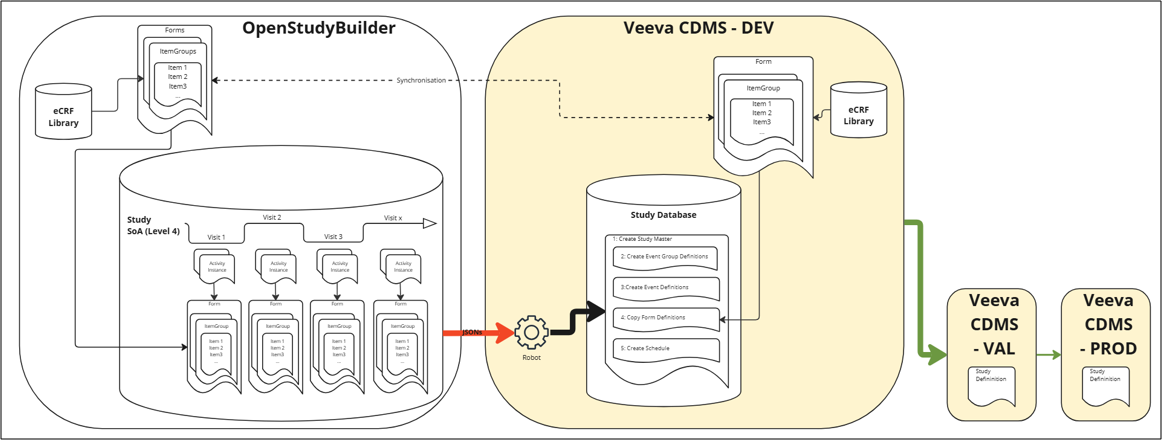
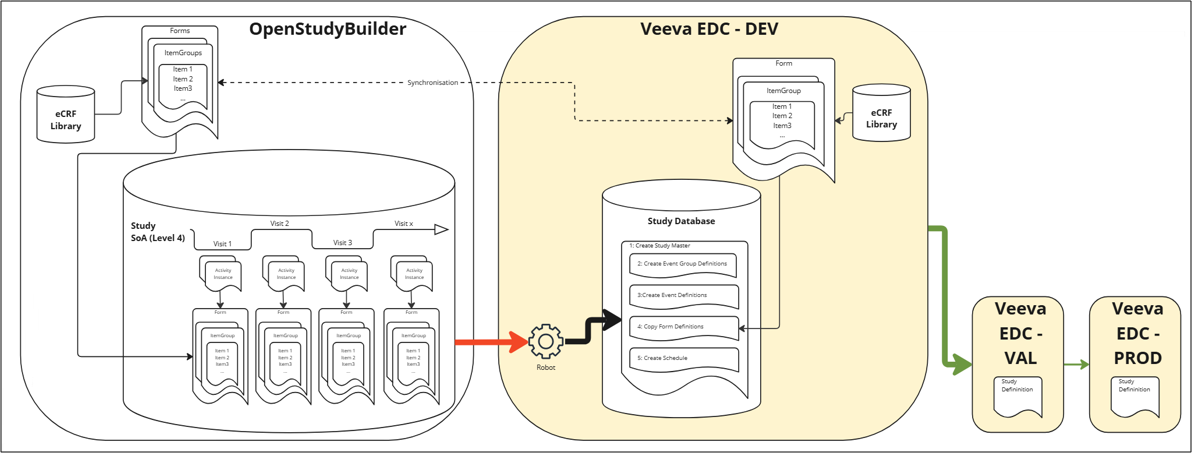
updates on EDC documentation

diff --git a/docs/stylesheets/general.css b/docs/stylesheets/general.css
@@ -44,6 +44,18 @@ img {
   border: none;
 }
 
+.imageMaxWidth600 {
+  max-width: 600px;
+  height: auto;
+  display: block;
+  margin: 0 auto;
+}
+
+.imageMaxWidth400 {
+  max-width: 400px !important;
+  height: auto;
+}
+
 .md-header__button.md-logo img {
   border: none !important;
   box-shadow: none !important;

diff --git a/docs/guide_edc.md b/docs/guide_edc.md
@@ -9,8 +9,8 @@ The OpenStudyBuilder is not an EDC system, nor should it replace one. But it con
 
 EDC System | Status | Integration Strategy
 --- | --- | ---
-Oracle ClinicalOne | Live | API-based integration, "Automated Study Builder Application" available, utilizing extensions for edit checks and more, developed by Oracle
-Veeva CDMS | PoC | API-based integration, limited features due to currently missing features on Veeva side, development by OpenStudyBuilder team
+Oracle Clinical One | Live | API-based integration, "Automated Study Builder Application" available, utilizing extensions for edit checks and more, developed by Oracle
+Veeva EDC | PoC | API-based integration, limited features due to currently missing API endpoints on Veeva side, development by OpenStudyBuilder team with ongoing improvement discussions
 Marvin EDC | PoC | ODM.xml export and import, tested by EvidentIQ
 REDCAP Cloud | PoC | ODM.xml export and import, tested by University community
 [ODM.xml based EDC Systems] | theoretical support | ODM.xml export and import, no specific other EDC system tested yet
@@ -18,37 +18,39 @@ Medidata Rave | N/A | None - needs to be requested by PharmaCos and someone will
 
 ## CRFs in OpenStudyBuilder
 
-The OpenStudyBuilder support a **CRF library** on the standards level. CRFs can be designed and visualized in the OpenStudyBuilder containing forms, item groups and items in alignment with the ODM.xml standard. Furthermore extensions and aliases can be defined to support the EDC system specific requirements. Please check out the guide on [CRF](./guide_crf.md) for more details. We are currently working on binding CRF elements to activities using biomedical concepts. For more details on this, please refer to the [Activity Concepts](./guide_activity_concept.md) and [Beyond Concepts](./guide_beyond_concepts.md) for detailed information. Unless this work is done, a **study CRF is NOT available**.
+The OpenStudyBuilder supports a **CRF library** on the standards level. CRFs can be designed and visualized in the OpenStudyBuilder containing forms, item groups and items in alignment with the ODM.xml standard. Furthermore, extensions and aliases can be defined to support the EDC system specific requirements. Please check out the guide on [CRF](./guide_crf.md) for more details. We are currently working on binding CRF elements to activities using biomedical concepts. For more details on this, please refer to the [Activity Concepts](./guide_activity_concept.md) and [Beyond Concepts](./guide_beyond_concepts.md) for detailed information. Unless this work is done, a **study CRF is NOT available**.
 
-## Veeva CDMS Integration
+## Veeva EDC Integration
 
-The OpenStudyBuilder team is currently working on a continuous improvement of our proof of concept for the Veeva CDMS integration. The integration is based on the OpenStudyBuilder and Veeva's APIs. The goal is to enable the creation of studies in Veeva CDMS based on the CRF library, metadata and study design defined in OpenStudyBuilder.
+The OpenStudyBuilder team is currently working on a continuous improvement of our proof of concept for the Veeva EDC integration. The integration is based on the OpenStudyBuilder and Veeva's APIs. The goal is to enable the creation of studies in Veeva EDC based on the CRF library, metadata and study design defined in OpenStudyBuilder.
 
 ### High Level Overview
 
 The following high-level overview shows the main idea.
 
-![High Level Overview of Veeva CDMS Integration Plans](./img/guide_edc_04_006.png)
-{: class="imageParagraph"}
+![High Level Overview of Veeva EDC Integration Plans](./img/guide_edc_04_006.png)
+{: class="imageParagraph imageMaxWidth600"}
 
-Figure 1: High Level Overview of Veeva CDMS Integration Plans
+Figure 1: High Level Overview of Veeva EDC Integration Plans
 {: class="imageDescription"}
 
-We plan to synchronize the Veeva CDMS CRF Library and the OpenStudyBuilder CRF library. These OpenStudyBuilder CRF library elements are then linked to activity instances which are used in the study specific Schedule of Activities (SoA) - we name this SoA Level 4. When creating a study in OpenStudyBuilder, we can trigger an automation which will setup the Study in Veeva CDMS based on this OpenStudyBuilder SoA Level 4.
+We plan to synchronize the Veeva EDC CRF Library and the OpenStudyBuilder CRF library. These OpenStudyBuilder CRF library elements are then linked to activity instances which are used in the study specific Schedule of Activities (SoA) - we name this SoA Level 4. The long-term vision is to link the elements of the OpenStudyBuilder CRF library to activity instances that are used in the study-specific Schedule of Activities (SoA) - which we refer to as SoA Level 4. In our current proof of concept (PoC), which serves as the foundation for the development of SoA Level 4 when creating a study in OpenStudyBuilder, we can trigger an automation that will set up the Study in Veeva EDC based on the OpenStudyBuilder SoA Level 3, in combination with some workarounds using Neodash reports.
 
-[![Overview of Veeva CDMS Integration Plans](./img/guide_edc_03.png)](./img/guide_edc_03.png){target=_blank}
+[![Overview of Veeva EDC Integration Plans](./img/guide_edc_03.png)](./img/guide_edc_03.png){target=_blank}
 {: class="imageParagraph"}
 
-Figure 2: Overview of Veeva CDMS Integration Plans
+Figure 2: Overview of Veeva EDC Integration Plans
 {: class="imageDescription"}
 
-**In short** - the current vision is the following:
+**In short** - the long-term vision is the following:
 
-- Maintain CRF Forms, ItemGroups and Items in Veeva CDMS with additional attributes, for example system display configuration
-- Synchronize CRF objects to OpenStudyBuilder, supported by a compare tool 
+- Maintain CRF Forms, ItemGroups and Items in Veeva EDC with additional attributes, for example system display configuration
+- Synchronize CRF objects between OpenStudyBuilder and Veeva CRF library, supported by a compare tool (this will be done via API after Veeva's release)
 - Select activity instances in Schedule of Activities for visits (which are linked to CRF objects - Level 4). 
-- Perform automation setup with "Robot" - call the Veeva APIs to setup a new empty study, create event groups and events, copy the CRF forms and create the schedule.
+- Perform automation setup calling the Veeva APIs to setup a new empty study, create event groups and events, copy the CRF forms and create the schedule.
 - After study setup in DEV, use this new study in VAL and PROD
+
+Note: We're in dialog with Veeva to prioritize new APIs on their roadmap that will enable OpenStudyBuilder to synchronize objects between libraries at both the library and study level.
 
 **Explanation** 
 
@@ -58,10 +60,10 @@ A further step is required to update and maintain the data specifications. Next 
 
 On study setup, an activity is selected for the schedule of activities which is used in the clinical protocol, after the Epoch and the Visits have been created. Then these activities are further fine-tuned with selecting the activity instances. By selecting the activity instance, the linkage of a selected activity and the corresponding required CRF elements are available, for each dedicated visit.
 
-This specification can now be used to generate a very specific formatted JSON file, that can then be consumed by a Python script that is calling the Veeva API to setup the study in Veeva CDMS. We are working on a process (robot), to setup the Veeva CMDS study database:
+This specification can now be used to generate a very specific formatted JSON file, that can then be consumed by a Python script that is calling the Veeva API to setup the study in Veeva EDC. We are working on a process (robot), to setup the Veeva CMDS study database:
 
 - Create Study Master (this is an empty new study in Veeva)
-- Create Event Group Definitions (this is a group of events – working like a Cycle in an oncologic study)
+- Create Event Group Definitions (this is a group of events - working like a Cycle in an oncologic study)
 - Create Event Definitions (based on the OpenStudyBuilder visits used by the SoA)
 - Copy Form Definitions from the Veeva CRF Library (based on the Activity Instances selected in the SoA, linked to the eCRF forms)
 - Create Schedule (binding the Veeva Forms to the Event created before)
@@ -82,14 +84,14 @@ The following legend is used to describe the elements:
 
 Description | Icon
 --- | ---
-Veeva CDMS Form | ![Veeva CDMS Form](./img/guide_edc_04_001_01.png)
-OpenStudyBuilder Form | ![OpenStudyBuilder Form](./img/guide_edc_04_001_02.png)
-Steps not fully supported | ![Steps not fully supported](./img/guide_edc_04_001_03.png)
-Veeva event group | ![Veeva event group](./img/guide_edc_04_001_04.png)
-Veeva event label | ![Veeva label](./img/guide_edc_04_001_05.png)
-OpenStudyBuilder Epoch | ![OpenStudyBuilder Epoch](./img/guide_edc_04_001_06.png)
-OpenStudyBuilder Visit | ![OpenStudyBuilder Visit](./img/guide_edc_04_001_07.png)
-OpenStudyBuilder Activity | ![OpenStudyBuilder Activity](./img/guide_edc_04_001_08.png)
+Veeva EDC Form | ![Veeva EDC Form](./img/guide_edc_04_001_01.png){: class="imageMaxWidth400"}
+OpenStudyBuilder Form | ![OpenStudyBuilder Form](./img/guide_edc_04_001_02.png){: class="imageMaxWidth400"}
+Steps not fully supported | ![Steps not fully supported](./img/guide_edc_04_001_03.png){: class="imageMaxWidth400"}
+Veeva event group | ![Veeva event group](./img/guide_edc_04_001_04.png){: class="imageMaxWidth400"}
+Veeva event label | ![Veeva label](./img/guide_edc_04_001_05.png){: class="imageMaxWidth400"}
+OpenStudyBuilder Epoch | ![OpenStudyBuilder Epoch](./img/guide_edc_04_001_06.png){: class="imageMaxWidth400"}
+OpenStudyBuilder Visit | ![OpenStudyBuilder Visit](./img/guide_edc_04_001_07.png){: class="imageMaxWidth400"}
+OpenStudyBuilder Activity | ![OpenStudyBuilder Activity](./img/guide_edc_04_001_08.png){: class="imageMaxWidth400"}
 
 Let's get through the process steps.
 
@@ -102,29 +104,69 @@ Figure 4: Process Steps - eCRF Libraries
 As a first steps, the eCRF forms are created in the Veeva eCRF Library including the ItemGroups and Items (1). An important value is the reference ID. The synchronization job (2) will create the corresponding objects in the OpenStudyBuilder eCRF library (3) using additionally the linkage information (reference ID).
 
 ![Process Steps - Activity Setup](./img/guide_edc_04_007.png)
-{: class="imageParagraph"}
+{: class="imageParagraph imageMaxWidth600"}
 
 Figure 5: Process Steps - Activity Setup
 {: class="imageDescription"}
 
-In the steps step, the activity instances needs to be enhanced. Within the OpenStudyBuilder Activity Library (4), the activity (general concepts) and activity instances (dataset specifications) are managed. The activity instances are linked to the CRF elements (5). The link to the Form, ItemGroup and Item is managed in accordance with the ODM standard.
+In the steps step, the activity instances need to be enhanced. Within the OpenStudyBuilder Activity Library (4), the activity (general concepts) and activity instances (dataset specifications) are managed. The activity instances are linked to the CRF elements (5). The link to the Form, ItemGroup and Item is managed in accordance with the ODM standard.
 
 ![Process Steps - Study SoA Setup](./img/guide_edc_04_003.png)
-{: class="imageParagraph"}
+{: class="imageParagraph imageMaxWidth600"}
 
 Figure 6: Process Steps - Study SoA Setup
 {: class="imageDescription"}
 
 In a study (6), in the OpenStudyBuilder, a schedule of activity (SoA) is created (7). In the study, epochs are defined and used along with visits. A specific activity is selected for the study protocol and further fine-tuned by selecting a corresponding connected activity instance and associated with specific visits. As the linkage information is available in the standard, the visits can bind to concrete eCRF Forms including ItemGroups and Items (8).
 
-![Process Steps - Veeva CDMS Study Setup](./img/guide_edc_04_005.png)
-{: class="imageParagraph"}
+![Process Steps - Veeva EDC Study Setup](./img/guide_edc_04_005.png)
+{: class="imageParagraph imageMaxWidth600"}
 
-Figure 7: Process Steps - Veeva CDMS Study Setup
+Figure 7: Process Steps - Veeva EDC Study Setup
 {: class="imageDescription"}
 
-As we are now having all required information available, the Veeva CDMS setup for the specific study can be created. First (1), the study is created if not already available storing the ID back in OpenStudyBuilder. Then the event group definitions are created (2) containing the Epochs (this is a first approach). The next step created events (3) which corresponds to the visit. The form definitions are copied from the Veeva eCRF Library (4) using the ID which are stored along. Finally the Schedule is created (5) assigning the visits to the forms.
+As we are now having all required information available, the Veeva EDC setup for the specific study can be created. First (1), the study is created if not already available storing the ID back in OpenStudyBuilder. Then the event group definitions are created (2) containing the Epochs (this is a first approach). The next step created events (3) which corresponds to the visit. The form definitions are copied from the Veeva eCRF Library (4) using the ID which are stored along. Finally, the Schedule is created (5) assigning the visits to the forms.
 
-There is a "robot" program which creates and performs the final required API calls in the Veeva CDMS system. This automatic setup is performed in a DEV instance of the Veeva CDMS system. After setup, checks can be performed within Veeva and then the study can be setup in VAL and PROD afterwards.
+There is a "robot" program which creates and performs the final required API calls in the Veeva EDC system. This automatic setup is performed in a DEV instance of the Veeva EDC system. Until new APIs allow for further updates, we need to perform trial specific adjustments and form additions for now when required. After setup, checks can be performed within Veeva and then the study can be setup in VAL and PROD afterwards.
 
+## Oracle EDC Integration
 
+Oracle has developed the **Automated Study Builder Application** to streamline the setup of studies in Oracle Clinical One EDC using OpenStudyBuilder. The tool taps into the OpenStudyBuilder CRF library and the study setup for the schedule of activities (SoA).
+
+![Overview of Oracle EDC Integration](./img/guide_edc_05.png)
+{: class="imageParagraph imageMaxWidth600"}
+
+Figure 8: Overview of Oracle EDC Integration
+{: class="imageDescription"}
+
+The CRF forms, item groups and items can be enhanced using the extension mechanism from the ODM.xml standard. Oracle is using this to manage in the OpenStudyBuilder CRF library additional information like edit checks or ranges. 
+
+The Automated Study Builder Application is the interface where the the information from OpenStudyBuilder is read and processed to setup the study in the Clinical One EDC system. Here we see how the digital data flow enables automation. 
+
+### Demonstration Videos
+
+Discover how Oracle's Automated Study Builder leverages OpenStudyBuilder to streamline EDC setup in Oracle Clinical One. This **comprehensive overview** demonstrates the seamless integration and automation capabilities that transform traditional study building processes (2025-07-03).
+
+<iframe 
+  id="kaltura_player" 
+  src='https://cdnapisec.kaltura.com/p/2171811/embedPlaykitJs/uiconf_id/54927872?iframeembed=true&amp;entry_id=1_i20m4bvk&amp;config%5Bprovider%5D=%7B%22widgetId%22%3A%221_3n7fkv6k%22%7D&amp;config%5Bplayback%5D=%7B%22startTime%22%3A0%7D'  
+  style="width: 720px;height: 400px;border: 0;" 
+  allowfullscreen 
+  webkitallowfullscreen 
+  mozAllowFullScreen 
+  allow="autoplay *; fullscreen *; encrypted-media *" 
+  sandbox="allow-downloads allow-forms allow-same-origin allow-scripts allow-top-navigation allow-pointer-lock allow-popups allow-modals allow-orientation-lock allow-popups-to-escape-sandbox allow-presentation allow-top-navigation-by-user-activation" 
+  title="Automated Study Builder with OSB Introduction">
+</iframe>
+
+Watch this demonstration of Oracle's intelligent study building capabilities, showcasing the powerful integration between OpenStudyBuilder and Oracle Clinical One EDC system. See how clinical data management workflows are revolutionized through intelligent automation (2024-06-14).
+
+<iframe
+  title="Intelligent Study Build - Oracle integration with OpenStudyBuilder"
+  width=720
+  height=400
+  src="https://www.youtube-nocookie.com/embed/4-33kqSTdeY"
+  frameBorder="0"
+  allow="accelerometer; encrypted-media; gyroscope; picture-in-picture"
+  allowFullScreen
+></iframe>
